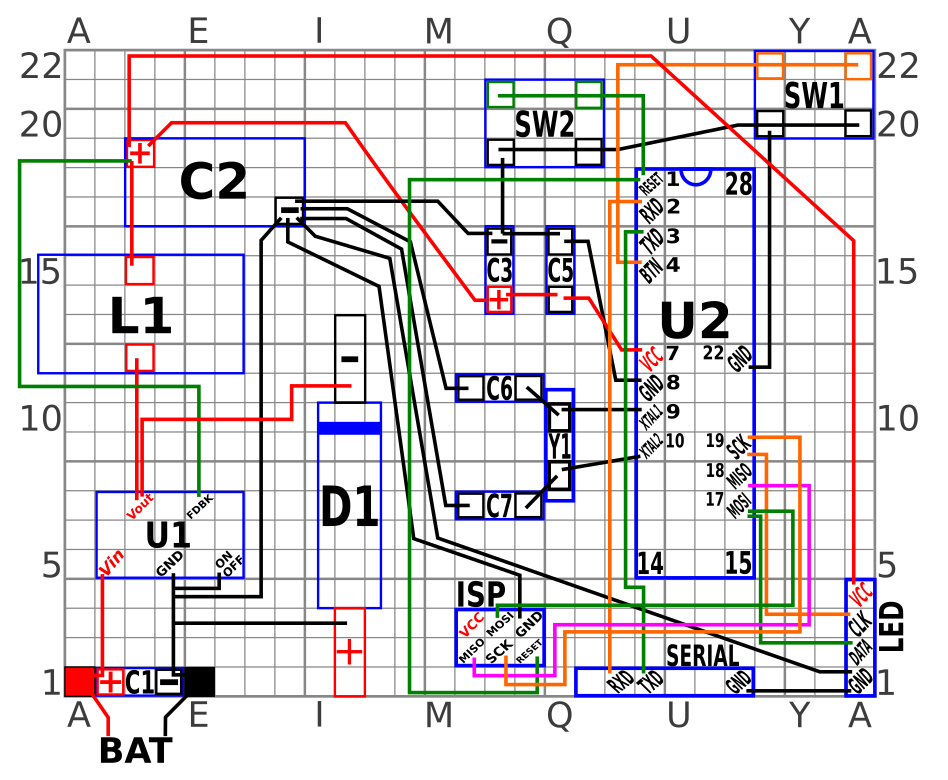
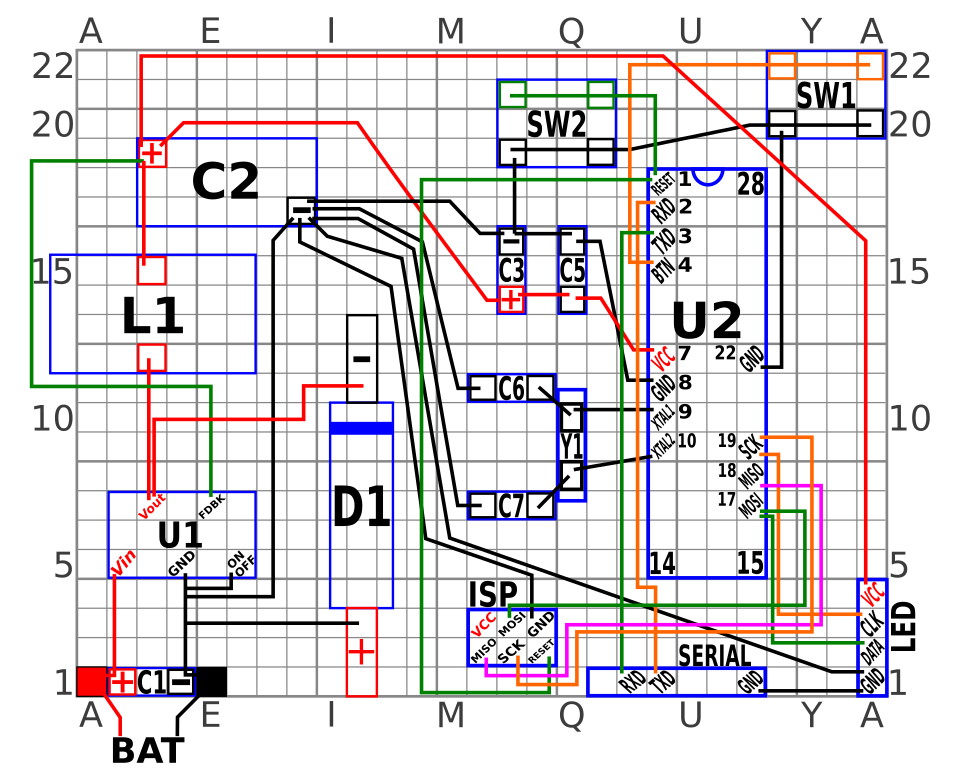
Fix RX/TX Connections in Prototyping Board Layout

Changed region(s): [[0.0, 0.0, 0.9789, 0.9846], [0.5812, 0.0, 0.6118, 0.0615]]

diff --git a/README.md b/README.md
@@ -229,7 +229,6 @@ short-press to switch patterns or long-press again to power down the blade.
 
 ## TODO
 
-* Fix RXD/TXD connections in protoboard layout! They're swapped!
 * Add model number, & links to Components table
 * Update `Mouser_BOM` for prototyping board
 * PCB w/ SMT components using KiCAD
